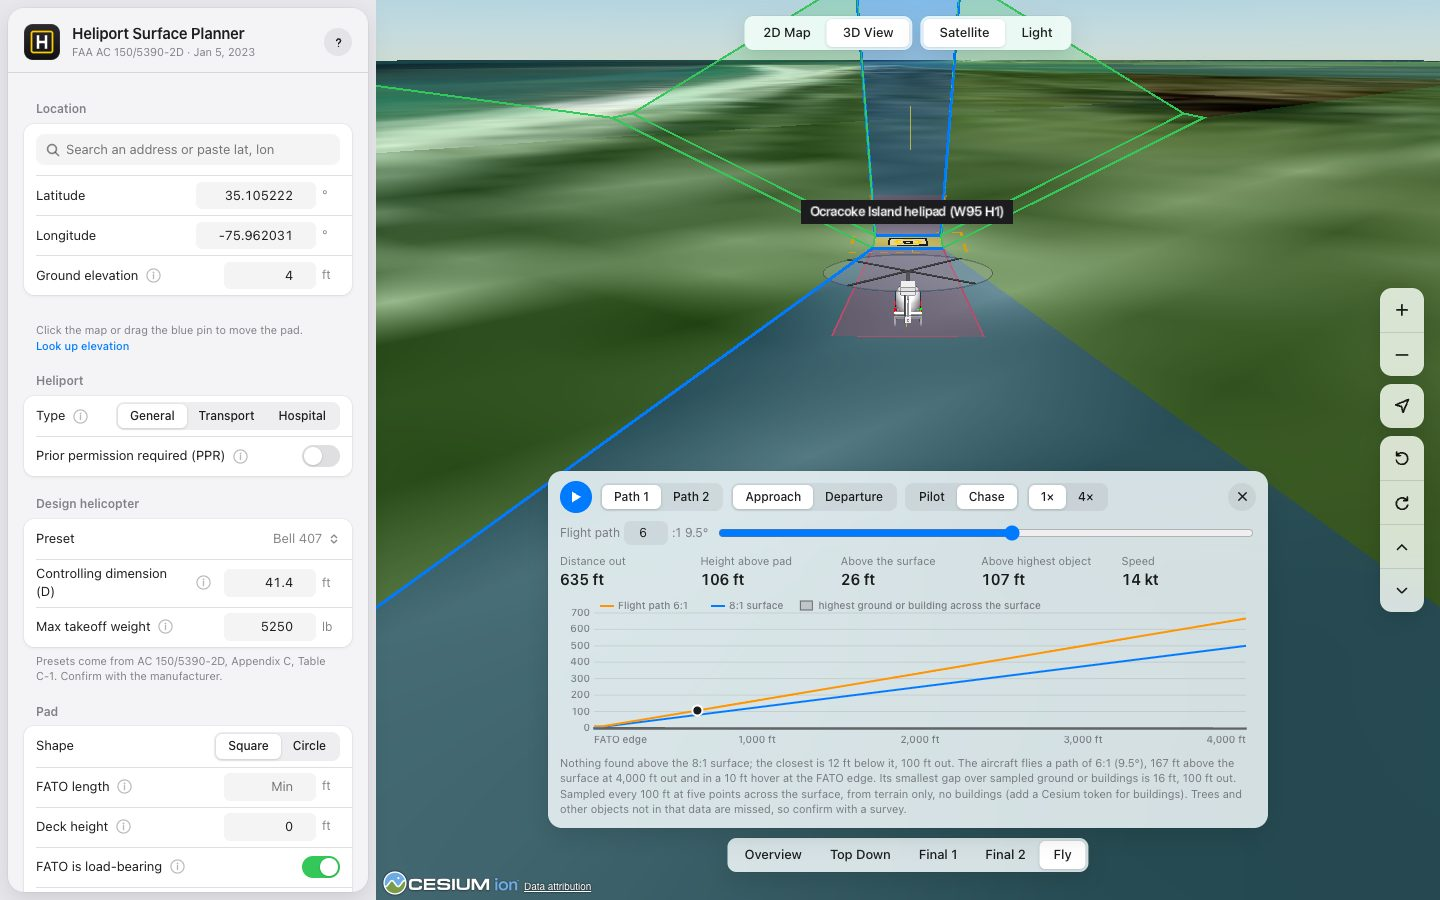
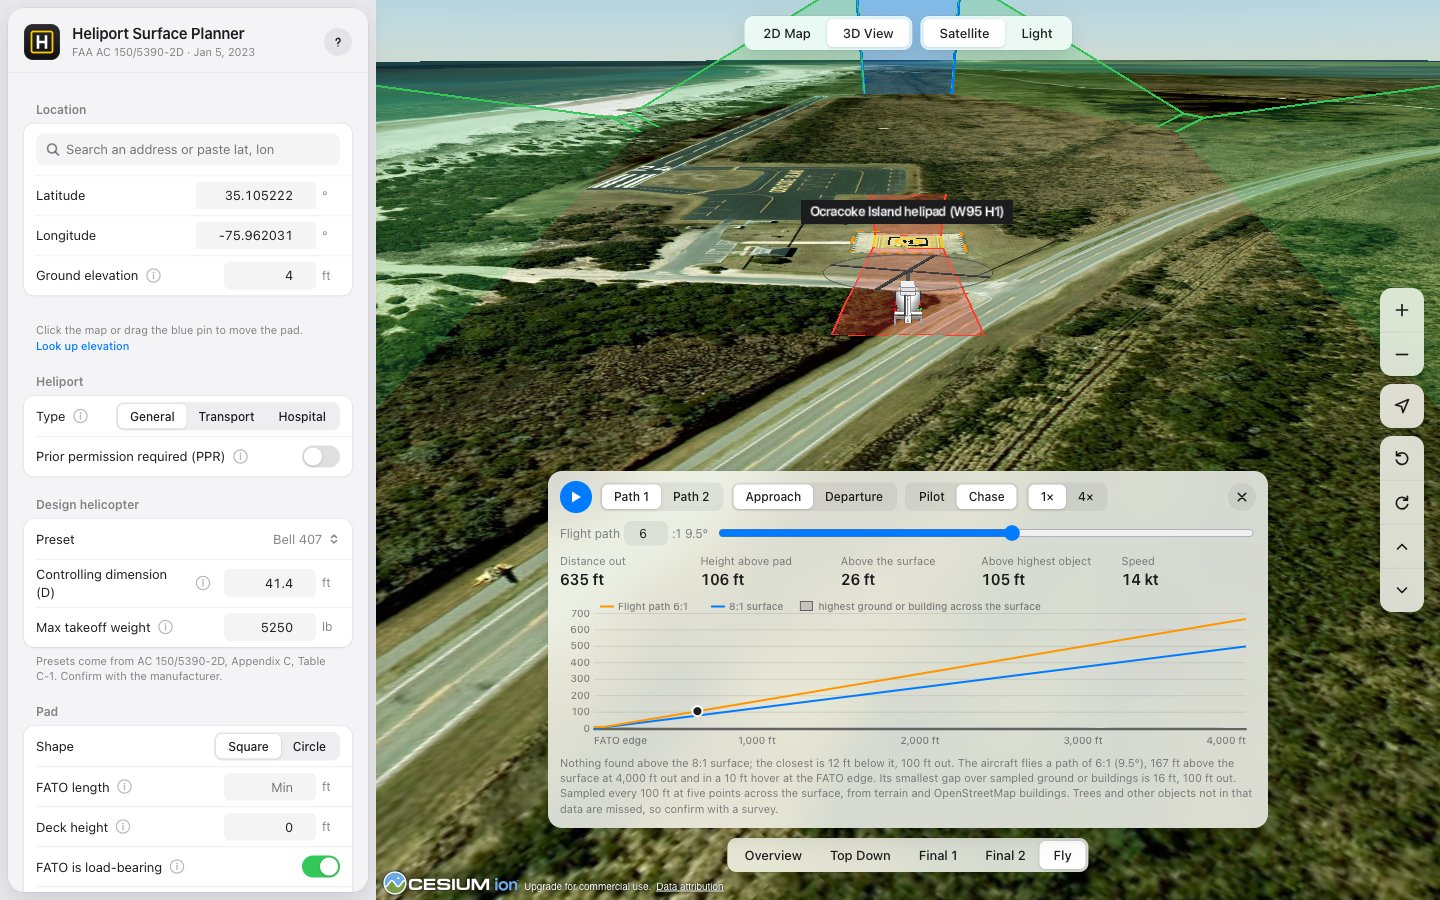
Retake the 3D screenshots at Ocracoke with OpenStreetMap buildings
Add the 3D overview back to the README and refresh the chase view,
whose obstacle profile now samples buildings as well as terrain.

diff --git a/README.md b/README.md
@@ -81,6 +81,8 @@ Name the site, then click **Google Earth (KML)** or **GIS (GeoJSON)**. The file 
 
 Click **3D View** at the top of the map. The surfaces appear in the air at their real heights over the terrain. Use the buttons on the right to zoom, rotate and tilt, and the bar at the bottom for preset views. On a laptop trackpad, drag to move and pinch to zoom. Click **Light** at the top for a plain gray map that makes the surfaces easier to read.
 
+![3D overview of the Ocracoke pad with the approach and transitional surfaces over satellite imagery](docs/images/05-3d-satellite.jpg)
+
 ### Fly a path
 
 Click **Fly** in the bar at the bottom of the 3D view. A generic single-rotor helicopter, sized from your D and not modeled on any real type, flies the chosen path from 4,000 ft out to a hover over the pad. Choose **Departure** to fly it outbound. **Pilot** shows the view from the cockpit and **Chase** follows from behind. Drag the slider to scrub.
